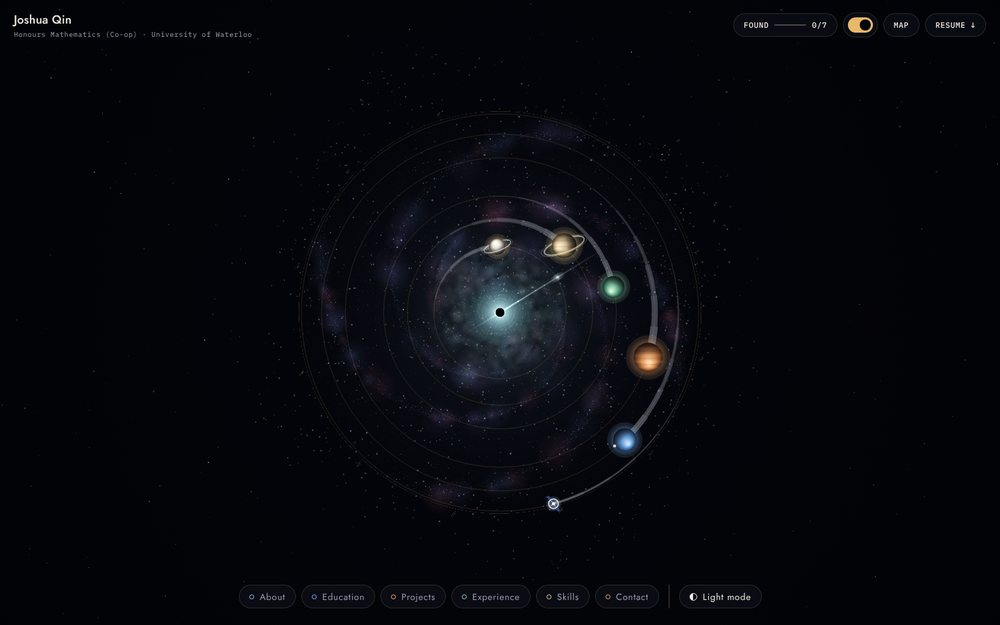
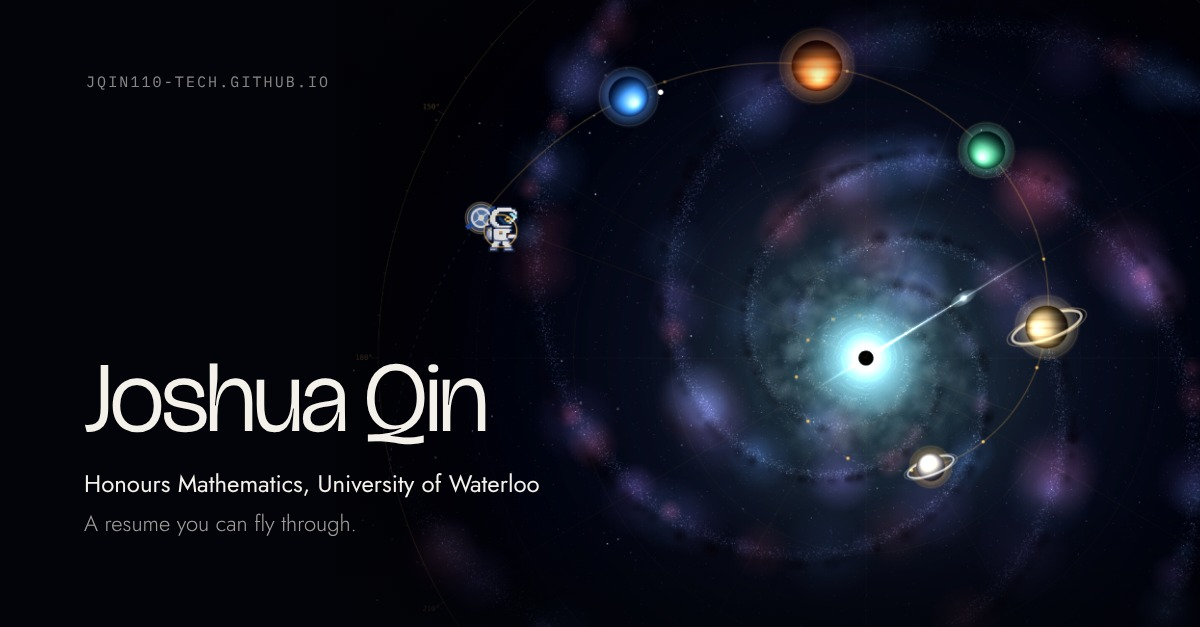
New link preview image

diff --git a/index.html b/index.html
@@ -10,7 +10,12 @@
     <meta property="og:title" content="Joshua Qin" />
     <meta property="og:description" content="Honours Mathematics at the University of Waterloo. A galaxy you can fly through, with my resume and projects below it." />
     <meta property="og:url" content="https://jqin110-tech.github.io/" />
-    <meta property="og:image" content="https://jqin110-tech.github.io/og.jpg" />
+    <meta property="og:image" content="https://jqin110-tech.github.io/preview.jpg" />
+    <meta property="og:image:width" content="1200" />
+    <meta property="og:image:height" content="627" />
+    <meta property="og:image:alt" content="Joshua Qin. A spiral galaxy with five planets around a black hole." />
+    <meta name="twitter:card" content="summary_large_image" />
+    <meta name="twitter:image" content="https://jqin110-tech.github.io/preview.jpg" />
     <link rel="preconnect" href="https://fonts.googleapis.com" />
     <link rel="preconnect" href="https://fonts.gstatic.com" crossorigin />
     <link href="https://fonts.googleapis.com/css2?family=Jost:wght@300;400;500;600&family=IBM+Plex+Mono:wght@400;500&family=Bricolage+Grotesque:opsz,wght@12..96,200..800&display=swap" rel="stylesheet" />

diff --git a/source/index.html b/source/index.html
@@ -10,7 +10,12 @@
     <meta property="og:title" content="Joshua Qin" />
     <meta property="og:description" content="Honours Mathematics at the University of Waterloo. A galaxy you can fly through, with my resume and projects below it." />
     <meta property="og:url" content="https://jqin110-tech.github.io/" />
-    <meta property="og:image" content="https://jqin110-tech.github.io/og.jpg" />
+    <meta property="og:image" content="https://jqin110-tech.github.io/preview.jpg" />
+    <meta property="og:image:width" content="1200" />
+    <meta property="og:image:height" content="627" />
+    <meta property="og:image:alt" content="Joshua Qin. A spiral galaxy with five planets around a black hole." />
+    <meta name="twitter:card" content="summary_large_image" />
+    <meta name="twitter:image" content="https://jqin110-tech.github.io/preview.jpg" />
     <link rel="preconnect" href="https://fonts.googleapis.com" />
     <link rel="preconnect" href="https://fonts.gstatic.com" crossorigin />
     <link href="https://fonts.googleapis.com/css2?family=Jost:wght@300;400;500;600&family=IBM+Plex+Mono:wght@400;500&family=Bricolage+Grotesque:opsz,wght@12..96,200..800&display=swap" rel="stylesheet" />

diff --git a/README.md b/README.md
@@ -6,7 +6,7 @@ The site at **https://jqin110-tech.github.io**. The top is a small galaxy you ca
 
 | Path | What it is |
 |---|---|
-| `index.html`, `assets/`, `og.jpg` | The built site. GitHub Pages serves these files as they are. |
+| `index.html`, `assets/`, `preview.jpg`, `og.jpg` | The built site. GitHub Pages serves these files as they are. |
 | `source/` | The code the site is built from: TypeScript, Vite and Canvas 2D, with no game engine. |
 
 ## Who built what
